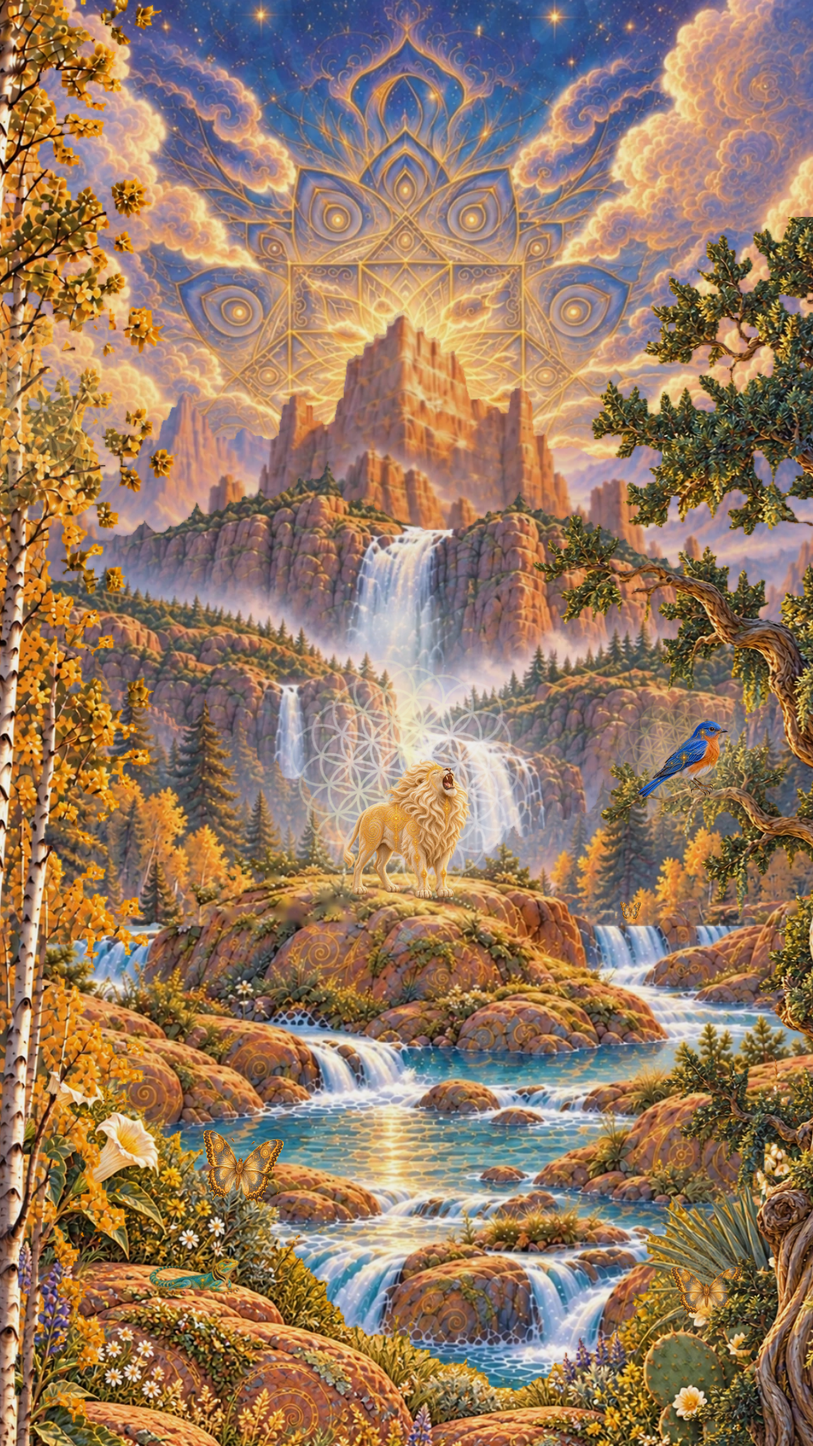
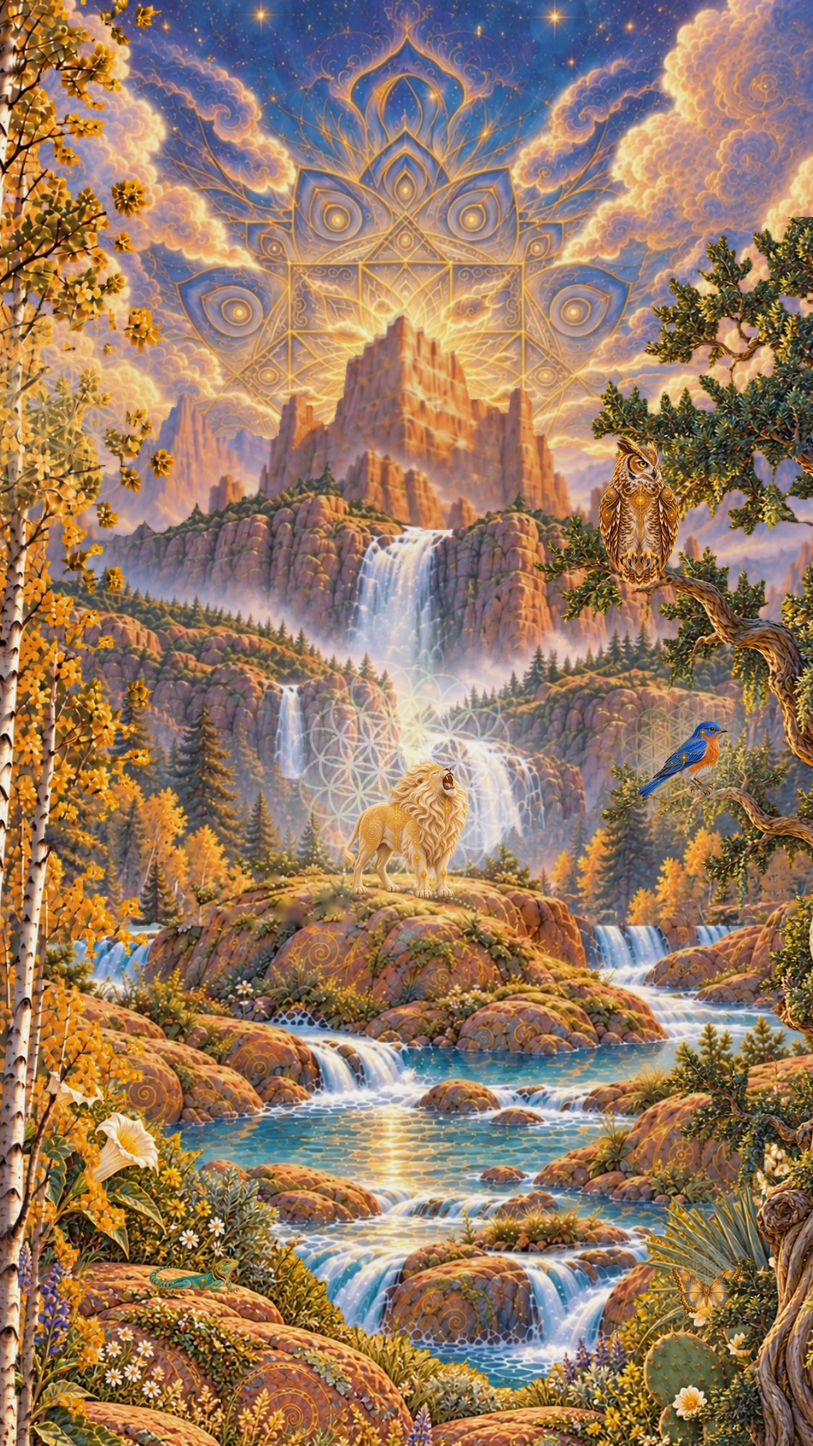
The lion's moment: once it rises every animal settles in a fixed place (birds/leaves leave), the page glides to the bottom and holds, tilt centres, and the world goes muted and soft with the vignette closed in; the roar floods color back with Flower of Life rings rippling out and a tight fast tremor
Claude-Session: https://claude.ai/code/session_01X5u2D9a4RRbbCvwnE6RQKF

diff --git a/frontend/src/components/site/journeyEngine.js b/frontend/src/components/site/journeyEngine.js
@@ -174,11 +174,11 @@ const CREATURES = [
     if (d > 19) c.flyAt = 0;                              // back on its branch
     return { x: PERCH.x, y: PERCH.y, flying: false, op: Math.min(1, d - 18) };
   } },
-  // the owl (rig, tap and art all kept) is off for now:
-  // { kind: "owl", layer: "juniper", w: OWL.w, pose: () => ({ x: OWL.x, y: OWL.y }) },
+  { kind: "owl", layer: "juniper", w: OWL.w, pose: () => ({ x: OWL.x, y: OWL.y }) },
   { kind: "lizard", layer: "foreground", w: 104, pose: (t, p, c, T) => ({ x: 225, y: 1266, pushing: inBeat(T, PUSHUP_S) || t < (c.pushUntil || 0) }) },
   { kind: "aspen", layer: "aspens", w: 230, pose: () => ({ x: 130, y: 470 }) },
   { kind: "lion", layer: "bison", w: 156.5, pose: () => ({ x: 66, y: 54 }) },
+  { kind: "roarwave", layer: "bison", top: true, w: 150, pose: () => ({ x: 110, y: -2 }) },
   { kind: "rainbow", layer: "falls", w: 760, pose: () => ({ x: 470, y: 470 }) },
   ...[[330, 880], [470, 900], [600, 870], [400, 1030], [540, 960]].map(([x, y], i) =>
     ({ kind: "ripple", layer: "river", w: 70, delay: i * 0.45, pose: () => ({ x, y }) })),
@@ -231,6 +231,12 @@ const STORY = [
 ];
 const BUBBLE_AFTER_MS = 10000;
 const ROAR_MS = 3200;
+// the climax: everything settles (FOCUS_MS) before the lion may roar; the finale clip would start
+// FINALE_AFTER_MS into the roar, once the shake and the ripples have settled on the still frame
+const FOCUS_MS = 1600, FINALE_AFTER_MS = 2000;
+// simple line icons of each totem's face, drawn in gold
+const TOTEM_ICON = Object.fromEntries(Object.entries({"bison": "<path d=\"M7 7.2C5 7.2 3.4 5.6 3.6 3.4M17 7.2c2 0 3.6-1.6 3.4-3.8\"/><path d=\"M7 7.2c1.5-.9 3-1.3 5-1.3s3.5.4 5 1.3c.8 2.5.5 5.1-1 7.5l-1.5 3.1c-.6 1.2-1.5 1.8-2.5 1.8s-1.9-.6-2.5-1.8L8 14.7C6.5 12.3 6.2 9.7 7 7.2z\"/><circle cx=\"9.6\" cy=\"10.6\" r=\".6\" fill=\"currentColor\"/><circle cx=\"14.4\" cy=\"10.6\" r=\".6\" fill=\"currentColor\"/><path d=\"M10.6 17.2h2.8\"/>", "bluebird": "<path d=\"M4.5 14c2-4 6-6 9.8-5 1.9.5 3 1.9 3.5 3.3L21 12l-3.1 1.6c-.6 2.9-3.1 4.9-6.6 4.9-3.4 0-5.6-1.7-6.8-4.5z\"/><path d=\"M8.8 13.4c2-1.2 4.2-1.2 6 .1\"/><path d=\"M4.5 14l-2.3 2.4\"/><circle cx=\"16\" cy=\"11\" r=\".6\" fill=\"currentColor\"/>", "butterfly": "<path d=\"M12 8v10\"/><path d=\"M12 9.5C9.3 4.6 4.2 4.6 4.2 8.2c0 3 4 4.6 7.8 3.2\"/><path d=\"M12 9.5c2.7-4.9 7.8-4.9 7.8-1.3 0 3-4 4.6-7.8 3.2\"/><path d=\"M12 12.4c-2.8.7-5.5 2.6-4.8 5.1.7 2.4 3.6-.7 4.8-3.4\"/><path d=\"M12 12.4c2.8.7 5.5 2.6 4.8 5.1-.7 2.4-3.6-.7-4.8-3.4\"/><path d=\"M11.6 8.2L10 5.4M12.4 8.2L14 5.4\"/>", "lizard": "<ellipse cx=\"12\" cy=\"5.3\" rx=\"1.5\" ry=\"2\"/><path d=\"M12 7.3c.9 2.2.9 5.3 0 8.2-.8 2.6-2.5 4.4-4.8 5\"/><path d=\"M11.8 9.6l-3-1.4-1 1.5M12.2 9.6l3-1.4 1 1.5M11.9 13.4l-3 1.5-.7 1.6M12.1 13.4l3 1.5.7 1.6\"/>", "owl": "<path d=\"M6.2 5.2l1.9 2.9M17.8 5.2l-1.9 2.9\"/><path d=\"M6 8.3c0-.8 2.6-1.7 6-1.7s6 .9 6 1.7v6c0 4-2.7 7-6 7s-6-3-6-7z\"/><circle cx=\"9.3\" cy=\"11.3\" r=\"2.1\"/><circle cx=\"14.7\" cy=\"11.3\" r=\"2.1\"/><path d=\"M12 13.4l-.8 1.2h1.6z\"/>", "lion": "<circle cx=\"12\" cy=\"12\" r=\"9.3\" stroke-dasharray=\"2.1 1.3\"/><path d=\"M8 9.6c0-2 1.8-3.6 4-3.6s4 1.6 4 3.6v2.6c0 2.6-1.8 4.8-4 4.8s-4-2.2-4-4.8z\"/><circle cx=\"10.4\" cy=\"10.6\" r=\".6\" fill=\"currentColor\"/><circle cx=\"13.6\" cy=\"10.6\" r=\".6\" fill=\"currentColor\"/><path d=\"M11 13.3h2l-1 1.1z\"/>"}).map(([k, d]) =>
+  [k, `<svg viewBox="0 0 24 24" fill="none" stroke="currentColor" stroke-width="1.3" stroke-linecap="round" stroke-linejoin="round">${d}</svg>`]));
 const RAIN_MS = 6500, RAINBOW_MS = 9000, NIGHT_AFTER_MS = 2500;
 const PROGRESS_IDLE_MS = 2200, MOUSE_LEAN = 0.6;
 const STORY_HOLD_SVH = 65, STEP_SVH = 70, TAIL_SVH = 40;
@@ -332,10 +338,8 @@ export function mountJourney(root, { start = "hero", navigate } = {}) {
     <div class="tj-progress" aria-hidden="true"><div class="tj-progressHint"><span>Keep scrolling</span>
       <svg viewBox="0 0 24 24" fill="none" stroke="currentColor" stroke-width="2"><path d="M6 9l6 6 6-6"/></svg></div>
       <div class="tj-progressLine"><i class="tj-progressFill"></i><i class="tj-progressDrop"></i></div></div>
-    <div class="tj-totems">${[["bison", "w3-bison-body.webp"], ["bluebird", "trev-world-bluebird-perched.webp"],
-      ["butterfly", "trev-world-butterfly.webp"], ["lizard", "trev-world-lizard-a.webp"]]
-      .map(([k, src]) => `<span class="tj-totem" data-k="${k}"><img src="${A + src}" alt=""></span>`).join("")}
-      <button class="tj-totem tj-lionTotem" type="button" aria-label="The white lion"><img src="${A}trev-world-lion.webp" alt=""></button></div>
+    <div class="tj-totems">${["bison", "bluebird", "butterfly", "lizard", "owl"].map((k) => `<span class="tj-totem" data-k="${k}">${TOTEM_ICON[k]}</span>`).join("")}
+      <button class="tj-totem tj-lionTotem" type="button" aria-label="The white lion">${TOTEM_ICON.lion}</button></div>
     <div class="tj-awaken" aria-hidden="true"><i class="sweep"></i><p>The Kingdom is <span class="tj-gold">awake</span><small>The white lion rises</small></p></div>
     <div class="tj-dust" aria-hidden="true"></div>
     <header class="tj-header">
@@ -440,11 +444,31 @@ export function mountJourney(root, { start = "hero", navigate } = {}) {
     later(() => root.classList.add("lion"), 900);
     later(() => root.classList.remove("transforming"), 1900);
   }
+  // The focus: every animal settles in a fixed place (so the finale's first frame always matches),
+  // the birds and leaves leave the sky, the page glides to the bottom of the world and holds, the
+  // tilt eases to centre, and everything but the lion goes muted and soft as the vignette closes in.
+  let frozen = false, focusAt = 0;
+  function focus() {
+    if (frozen) return;
+    frozen = true; focusAt = performance.now();
+    for (const c of CREATURES) { if (c.flyAt) c.flyAt = 0; c.pushUntil = 0; }
+    const H = Hs(), top = DESCENT_SVH / 100 * H;
+    scroller.scrollTo({ top, behavior: Math.abs(scroller.scrollTop - top) > 4 ? "smooth" : "auto" });
+    later(() => scroller.classList.add("locked"), 900);
+    root.classList.add("frozen", "focus");
+  }
   function roar() {
     if (roaring) return;
-    roaring = true; root.classList.add("roaring");
-    // (the roar sound and, once it's made, the finale clip into the lion's eye start here)
-    later(() => { root.classList.remove("roaring"); roaring = false; }, ROAR_MS);
+    if (!frozen) { focus(); return later(roar, FOCUS_MS); }
+    const wait = FOCUS_MS - (performance.now() - focusAt);
+    if (wait > 0) return later(roar, wait);
+    roaring = true; root.classList.remove("focus"); root.classList.add("roaring");
+    // the roar sound plays here, and FINALE_AFTER_MS later (once made) the clip into the lion's eye
+    later(() => {
+      root.classList.remove("roaring"); roaring = false;
+      // no finale clip yet: give the world back its life
+      root.classList.remove("frozen"); scroller.classList.remove("locked"); frozen = false;
+    }, ROAR_MS);
   }
   let bisonCallAt = -1e9;
   const lightBison = () => {
@@ -511,7 +535,7 @@ export function mountJourney(root, { start = "hero", navigate } = {}) {
     return x > r.left - pad && x < r.right + pad && y > r.top - pad && y < r.bottom + pad;
   };
   const owlLook = () => {
-    if (owlBusy) return; owlBusy = true;
+    if (owlBusy) return; owlBusy = true; wake("owl");
     owl.classList.add("look");
     later(() => owl.classList.add("open"), OWL_LOOK_MS);
     const rest = () => {
@@ -543,6 +567,7 @@ export function mountJourney(root, { start = "hero", navigate } = {}) {
       lion = c;
     }
     else if (c.kind === "rainbow") body.innerHTML = `<i></i>`;
+    else if (c.kind === "roarwave") body.innerHTML = [0, 1, 2, 3].map((i) => `<div class="wave" style="--i:${i}">${sacredAura()}</div>`).join("");
     else if (c.kind === "bird") body.innerHTML = `<div class="frames" style="--flap:${c.flap}s;aspect-ratio:${FLYER[c.bird].join(" / ")}${c.flip ? ";transform:scaleX(-1)" : ""}">`
       + (c.bird === "swallow"   // Burnell's two frames, each centred
         ? `<img class="up mid" src="${A}trev-world-swallow-up.webp" alt=""><img class="down mid" src="${A}trev-world-swallow-down.webp" alt=""></div>`
@@ -589,9 +614,10 @@ export function mountJourney(root, { start = "hero", navigate } = {}) {
       for (const c of CLOUDS) if (c.after === L.key) {
         c.el = img(A + c.src, c.w); c.el.style.opacity = c.op; world.appendChild(c.el);
       }
-      for (const c of CREATURES) if ((c.layer || c.after) === L.key) { c.el = creatureEl(c); world.appendChild(c.el); }
+      for (const c of CREATURES) if (!c.top && (c.layer || c.after) === L.key) { c.el = creatureEl(c); world.appendChild(c.el); }
     }
     world.appendChild(sunsetEl);
+    for (const c of CREATURES) if (c.top) { c.el = creatureEl(c); world.appendChild(c.el); }
     $(".tj-side").style.backgroundImage = `url(${A}w3-sky.webp)`;
     for (const c of STORY) {
       const el = document.createElement("section"); el.className = "tj-slide" + (c.cover ? " cover" : "");
@@ -634,7 +660,7 @@ export function mountJourney(root, { start = "hero", navigate } = {}) {
     // the stage runs under Safari's bottom toolbar; over the second half of the descent the world
     // rises by that much, so at the bottom the whole painting is in view above the toolbar
     const oy = oy0 - Math.max(0, H - Hs()) * smooth((p - 0.5) / 0.5);
-    setVignette(VIG_LANDED - (VIG_LANDED - VIG_BOTTOM) * clamp01(p));   // 85% on the landing to 15% at the bottom
+    setVignette(root.classList.contains("focus") ? 1 : VIG_LANDED - (VIG_LANDED - VIG_BOTTOM) * clamp01(p));   // 85% on the landing to 15% at the bottom (full in the lion's focus)
     $(".tj-side").style.display = narrow ? "none" : "block";
     world.style.transform = `translate(${ox}px, ${oy}px) scale(${k})`;
     world.style.clipPath = narrow ? "" : `inset(0 ${(CANVAS.w * k - colW) / 2 / k}px)`;
@@ -659,7 +685,7 @@ export function mountJourney(root, { start = "hero", navigate } = {}) {
     const now = performance.now() / 1000;
     CLOUDS.forEach((c, i) => {
       const t = Math.min(1, p / PART_RANGE), e = 1 - (1 - t) * (1 - t), kk = 1 + 0.3 * c.spd;
-      const x = c.x0 - c.w / 2 + c.dir * 640 * kk * e + 8 * Math.sin(now * 0.3 + i) + tx * TILT_X * CLOUD_TILT * c.depth;
+      const x = c.x0 - c.w / 2 + c.dir * 640 * kk * e + (frozen ? 0 : 8 * Math.sin(now * 0.3 + i)) + tx * TILT_X * CLOUD_TILT * c.depth;
       const y = c.y0 - c.w * (c.ar || 0.438) / 2 - p * 600 * kk + ty * TILT_Y * CLOUD_TILT * c.depth;
       c.el.style.transform = `translate3d(${x.toFixed(1)}px, ${y.toFixed(1)}px, 0)${c.flip ? " scaleX(-1)" : ""}`;
       if (c.leaves && worldAt && !c.gone) {
@@ -679,10 +705,13 @@ export function mountJourney(root, { start = "hero", navigate } = {}) {
     landing.classList.toggle("is-gone", o < 0.05);
   }
   const layerOf = Object.fromEntries(LAYERS.map((L) => [L.key, L]));
+  const GONE_WHEN_FROZEN = new Set(["bird", "leaf", "mote", "ripple", "firefly"]);
   function placeCreatures(t, p) {
-    for (let i = CREATURES.length - 1; i >= 0; i--) if (CREATURES[i].dead) { CREATURES[i].el.remove(); CREATURES.splice(i, 1); }
+    for (let i = CREATURES.length - 1; i >= 0; i--) if (CREATURES[i].dead || (frozen && CREATURES[i].born)) { CREATURES[i].el.remove(); CREATURES.splice(i, 1); }
     for (const c of CREATURES) {
-      const pose = c.pose(t, p, c, t - worldAt), el = c.el;
+      if (frozen && (GONE_WHEN_FROZEN.has(c.kind) || (c.kind === "butterfly" && !c.landed))) { if (c.el.style.opacity !== "0") c.el.style.opacity = "0"; continue; }
+      const T = frozen ? 0 : t - worldAt, tt = frozen ? 0 : t;   // frozen: every pose at one fixed moment
+      const pose = c.pose(tt, p, c, T), el = c.el;
       if (pose && pose.pushing !== undefined && pose.pushing !== c.pushing) { c.pushing = pose.pushing; el.classList.toggle("pushing", pose.pushing); }
       if (pose && pose.flying !== undefined && pose.flying !== c.flying) { c.flying = pose.flying; el.classList.toggle("flying", pose.flying); }
       if (!pose) { if (el.style.opacity !== "0") el.style.opacity = "0"; continue; }
@@ -723,7 +752,7 @@ export function mountJourney(root, { start = "hero", navigate } = {}) {
   // Every sacred thing is a totem: waking one fills its gold icon in the row at the top. Wake them all
   // and the Kingdom awakens (for now a gold flare; the lion, the roar and the eye come next).
   // (the aspens and the sky answer a tap too, but they aren't totems: the totems are the animals)
-  const TOTEMS = ["bison", "bluebird", "butterfly", "lizard"];
+  const TOTEMS = ["bison", "bluebird", "butterfly", "lizard", "owl"];
   const totemRow = $(".tj-totems");
   let awake = new Set(), climaxed = false;
   try { awake = new Set(JSON.parse(localStorage.getItem("tj-totems") || "[]")); climaxed = localStorage.getItem("tj-awake") === "1"; } catch (e) { /* private mode */ }
@@ -741,7 +770,8 @@ export function mountJourney(root, { start = "hero", navigate } = {}) {
     try { localStorage.setItem("tj-awake", "1"); } catch (e) { /* private mode */ }
     later(() => totemRow.classList.add("lion"), 1600);      // the totems leave; the lion takes the row
     later(transform, 2200);                                  // ...as the bison becomes the lion
-    later(() => root.classList.remove("awakening"), 6500);
+    later(focus, 3200);                                      // and all the focus falls on the lion
+    later(() => root.classList.remove("awakening"), 4800);
   }
   on($(".tj-lionTotem"), "click", () => { if (lionMode) roar(); });
   // the screen point -> a layer's own coordinates
@@ -797,7 +827,6 @@ export function mountJourney(root, { start = "hero", navigate } = {}) {
 
   function openWorld() {
     phase = "world"; worldAt = performance.now() / 1000;
-    later(() => totemRow.classList.add("show"), 3500);
     if (climaxed) { totemRow.classList.add("lion"); lionMode = true; root.classList.add("lion"); }   // already awake
     if (isNight) later(() => root.classList.add("night"), NIGHT_AFTER_MS);
     if (!bubbleClosed) later(() => { if (!bubbleClosed) bubble.classList.add("show"); }, BUBBLE_AFTER_MS);
@@ -1227,7 +1256,7 @@ export function mountJourney(root, { start = "hero", navigate } = {}) {
     // on a computer the mouse leans the world instead (Burnell's desktop), easing in over the first
     // part of the descent so nothing shifts at the hand-off from the video
     const mlean = tilt.live ? 1 : MOUSE_LEAN * smooth(cur / DESCENT_SVH / 0.12);
-    const aimX = tilt.live ? tilt.x : mouseX * mlean, aimY = tilt.live ? tilt.y : mouseY * mlean;
+    const aimX = frozen ? 0 : tilt.live ? tilt.x : mouseX * mlean, aimY = frozen ? 0 : tilt.live ? tilt.y : mouseY * mlean;
     tx += (aimX - tx) * TILT_EASE; ty += (aimY - ty) * TILT_EASE;
     // The bass, from the drop on: only the emblem answers it (its glow, and a touch of lift).
     // Opacity and transform only, on one small layer.
@@ -1242,6 +1271,7 @@ export function mountJourney(root, { start = "hero", navigate } = {}) {
         : `rotateY(${(tx * 27 * SWORD_TILT).toFixed(2)}deg) rotateX(${(ty * -20 * SWORD_TILT).toFixed(2)}deg) scale(${(1 + 0.025 * beatShown).toFixed(4)})`;
     if (phase !== "world" || !worldBuilt) return;
     if (!prog.classList.contains("on")) prog.classList.add("on");
+    if (!totemRow.classList.contains("show") && landing.classList.contains("is-gone")) totemRow.classList.add("show");
     progress();
     target = scrolled();
     cur += (target - cur) * (1 - Math.exp(-dt * SCROLL_EASE));

diff --git a/frontend/src/components/site/journeyEngine.css b/frontend/src/components/site/journeyEngine.css
@@ -463,14 +463,14 @@ html.tj-flier-hover, html.tj-flier-hover * { cursor: pointer; }
 .tj-totems.show { opacity: 1; }
 .tj-totem { width: 30px; height: 30px; border-radius: 50%; display: grid; place-items: center; border: 1px solid rgba(231,201,143,.35);
   background: rgba(10,8,6,.55); transition: border-color .8s ease, box-shadow .8s ease, transform .5s cubic-bezier(.16,1,.3,1); }
-.tj-totem img { width: 72%; height: 72%; object-fit: contain; opacity: .28; filter: grayscale(1) brightness(1.4); transition: opacity .8s ease, filter .8s ease; }
+.tj-totem svg { width: 70%; height: 70%; color: rgba(239,230,214,.32); transition: color .8s ease; }
 .tj-totem.on { border-color: rgba(246,220,150,.9); box-shadow: 0 0 12px rgba(240,200,110,.6), inset 0 0 8px rgba(240,200,110,.35); }
-.tj-totem.on img { opacity: 1; filter: none; }
+.tj-totem.on svg { color: #f3d48e; filter: drop-shadow(0 0 3px rgba(240,200,110,.6)); }
 .tj-totem.pop { transform: scale(1.35); }
 
 /* the Kingdom awakens: a gold sweep down the world and the words */
 .tj-awaken { position: fixed; inset: 0; z-index: 42; pointer-events: none; opacity: 0; display: grid; place-items: center; }
-.tj.awakening .tj-awaken { animation: tj-awakenIn 6.5s ease forwards; }
+.tj.awakening .tj-awaken { animation: tj-awakenIn 4.8s ease forwards; }
 .tj-awaken .sweep { position: absolute; left: 0; right: 0; top: -60%; height: 60%;
   background: linear-gradient(to bottom, transparent, rgba(255,226,150,.55) 60%, rgba(255,246,220,.85) 80%, transparent); }
 .tj.awakening .tj-awaken .sweep { animation: tj-sweep 2.6s cubic-bezier(.45,0,.2,1) forwards; }
@@ -526,11 +526,12 @@ html.tj-flier-hover, html.tj-flier-hover * { cursor: pointer; }
 .tj.transforming .tj-cr-lion .burst { animation: tj-burst 1.9s ease-out forwards; }
 @keyframes tj-burst { 0% { opacity: 0; transform: scale(.3); } 45% { opacity: 1; transform: scale(1); } 100% { opacity: 0; transform: scale(1.3); } }
 /* the roar: the world shakes and the sky flares gold */
-.tj.roaring .tj-worldStage { animation: tj-shake .75s cubic-bezier(.36,.07,.19,.97) 2 both; }
-@keyframes tj-shake { 0%, 100% { transform: translate3d(0, 0, 0); } 10%, 50%, 90% { transform: translate3d(-7px, 3px, 0); } 30%, 70% { transform: translate3d(7px, -3px, 0); } }
+.tj.roaring .tj-worldStage { animation: tj-shake .07s linear 14 both; }   /* tight, fast tremor, ~1s */
+@keyframes tj-shake { 0% { transform: translate3d(0, 0, 0); } 25% { transform: translate3d(-2.5px, 1.5px, 0); } 50% { transform: translate3d(2px, -2px, 0); }
+  75% { transform: translate3d(-1.5px, -1px, 0); } 100% { transform: translate3d(0, 0, 0); } }
 .tj-worldStage::after { content: ""; position: absolute; inset: 0; pointer-events: none; opacity: 0;
   background: radial-gradient(ellipse 90% 60% at 50% 20%, rgba(255,226,150,.65), rgba(255,200,110,.2) 50%, transparent 80%); }
-.tj.roaring .tj-worldStage::after { animation: tj-flare 3.2s ease-out forwards; }
+.tj.roaring .tj-worldStage::after { animation: tj-flare 1.8s ease-out forwards; }
 @keyframes tj-flare { 0% { opacity: 0; } 15% { opacity: 1; } 100% { opacity: 0; } }
 .tj-awaken small { display: block; margin-top: 14px; font: 400 12px/1.4 var(--tj-display); letter-spacing: .32em; color: #f2dca5; }
 @media (prefers-reduced-motion: reduce) { .tj.roaring .tj-worldStage { animation: none; } }
@@ -543,8 +544,28 @@ html.tj-flier-hover, html.tj-flier-hover * { cursor: pointer; }
 .tj-totems.lion .tj-lionTotem { display: grid; width: 60px; height: 60px; padding: 0; cursor: pointer; pointer-events: auto;
   border-color: rgba(246,220,150,.95); box-shadow: 0 0 18px rgba(240,200,110,.7), inset 0 0 12px rgba(240,200,110,.4);
   animation: tj-lionIn 1.4s cubic-bezier(.16,1,.3,1) 1.2s both, tj-lionCall 3s ease-in-out 2.6s infinite; }
-.tj-lionTotem img { width: 82%; height: 82%; opacity: 1; filter: none; object-position: 50% 20%; }
+.tj-lionTotem svg { width: 76%; height: 76%; color: #f6dc9c; filter: drop-shadow(0 0 4px rgba(240,200,110,.7)); }
 @keyframes tj-lionIn { from { opacity: 0; transform: scale(.3); } to { opacity: 1; transform: none; } }
 @keyframes tj-lionCall { 0%, 100% { box-shadow: 0 0 18px rgba(240,200,110,.7), inset 0 0 12px rgba(240,200,110,.4); }
   50% { box-shadow: 0 0 30px rgba(255,220,140,.95), inset 0 0 14px rgba(240,200,110,.5); } }
 .tj.roaring .tj-lionTotem { animation: none; transform: scale(1.12); }
+
+/* ---------- the lion's moment: frozen, in focus, then the roar's geometry rippling out ---------- */
+.tj-scroller.locked { overflow-y: hidden; }
+.tj.frozen .tj-world * { animation-play-state: paused; }
+.tj.frozen .tj-cr-lion *, .tj.frozen .tj-cr-roarwave * { animation-play-state: running; }
+.tj.frozen .tj-bubble, .tj.frozen .tj-progress { opacity: 0 !important; pointer-events: none; }
+/* everything but the lion goes muted and soft (a still moment, so the filters don't cost a moving world) */
+.tj-world > img, .tj-world > .tj-cr, .tj-world > canvas { transition: filter 1.4s ease; }
+.tj.focus .tj-world > img, .tj.focus .tj-world > canvas, .tj.focus .tj-world > .tj-cr:not(.tj-cr-lion):not(.tj-cr-roarwave) { filter: saturate(.25) brightness(.72) blur(1.6px); }
+.tj.focus .tj-world > .tj-cr-lion .stand { filter: drop-shadow(0 0 14px rgba(255,226,150,.55)); transition: filter 1.4s ease; }
+/* the roar: Flower of Life rings ripple out from the lion's head, fading as they go */
+.tj-cr-roarwave .tj-crBody { aspect-ratio: 1; }
+.tj-cr-roarwave .wave { position: absolute; inset: 0; opacity: 0; }
+.tj-cr-roarwave .wave .aura { position: absolute; inset: 0; }
+.tj-cr-roarwave .glow { display: none; }
+.tj-cr-roarwave .geo { position: absolute; inset: 0; }
+.tj-cr-roarwave .geo svg { position: absolute; inset: 0; width: 100%; height: 100%; display: block; }
+.tj-cr-roarwave .geo svg g { stroke: #ffe2a0; stroke-width: .7; }
+.tj.roaring .tj-cr-roarwave .wave { animation: tj-roarWave 1.45s cubic-bezier(.2,.6,.3,1) calc(var(--i) * .15s) both; }   /* all gone by ~1.9s */
+@keyframes tj-roarWave { 0% { opacity: 0; transform: scale(.25) rotate(0deg); } 12% { opacity: .95; } 100% { opacity: 0; transform: scale(5.5) rotate(30deg); } }
